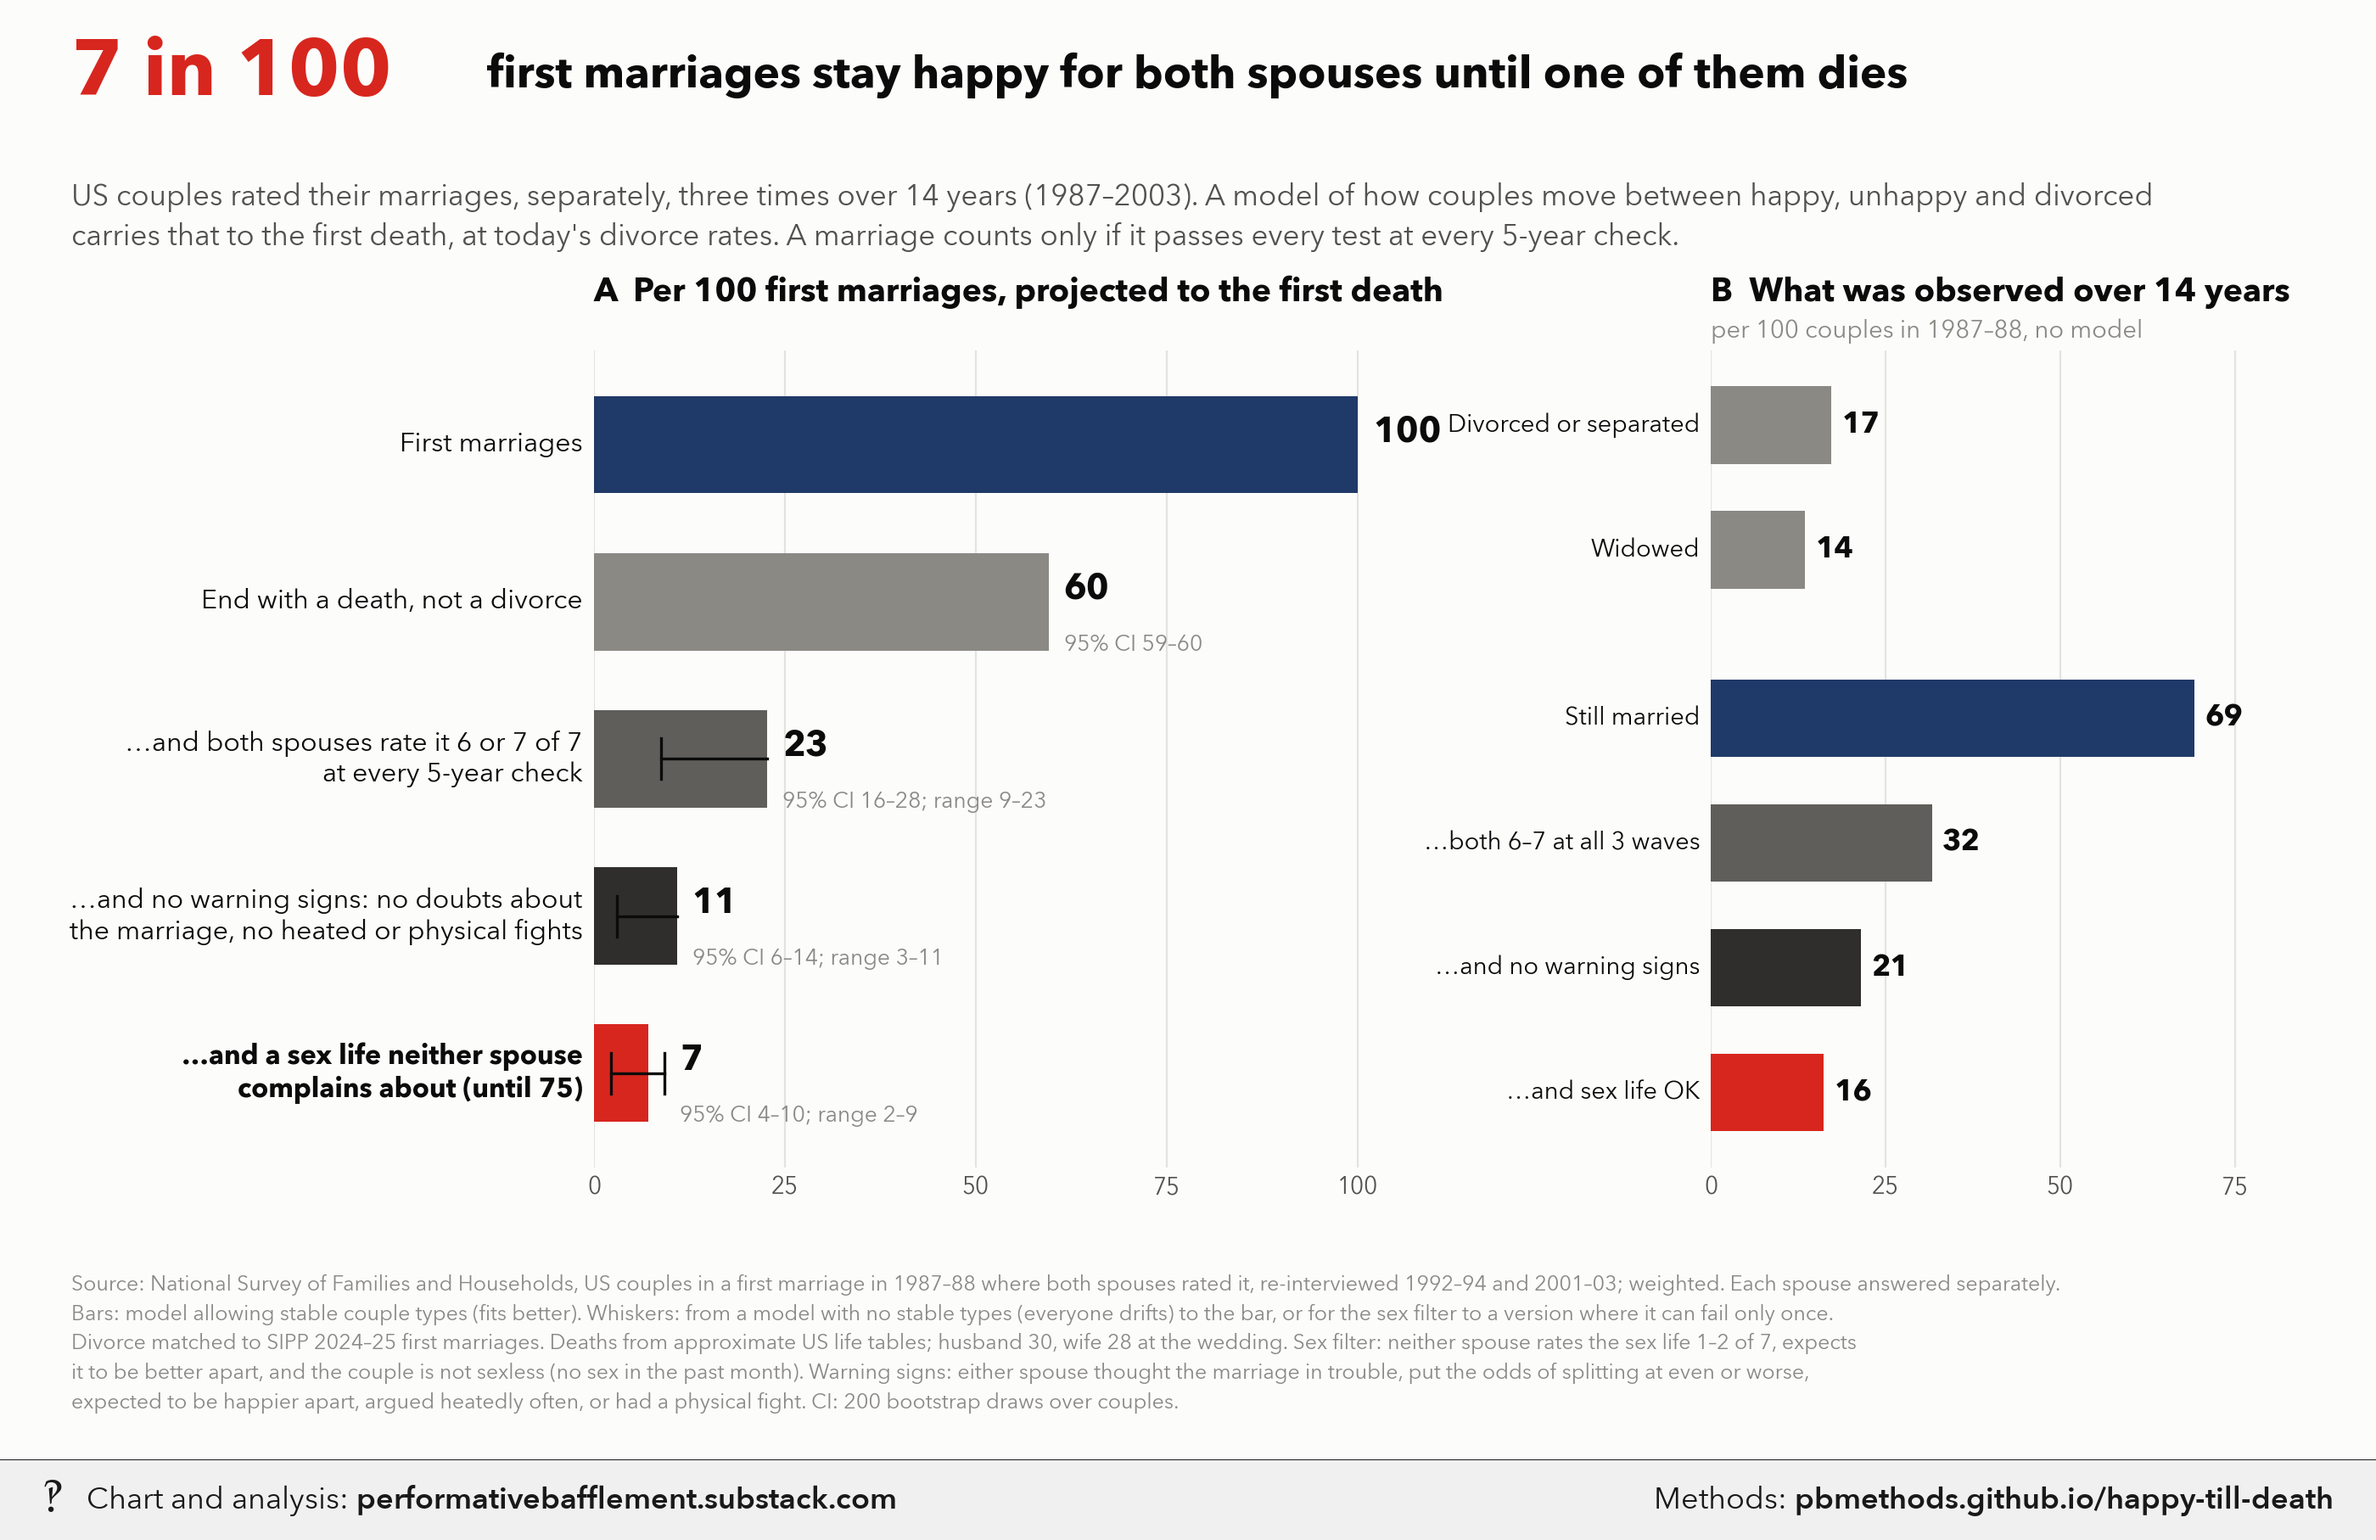
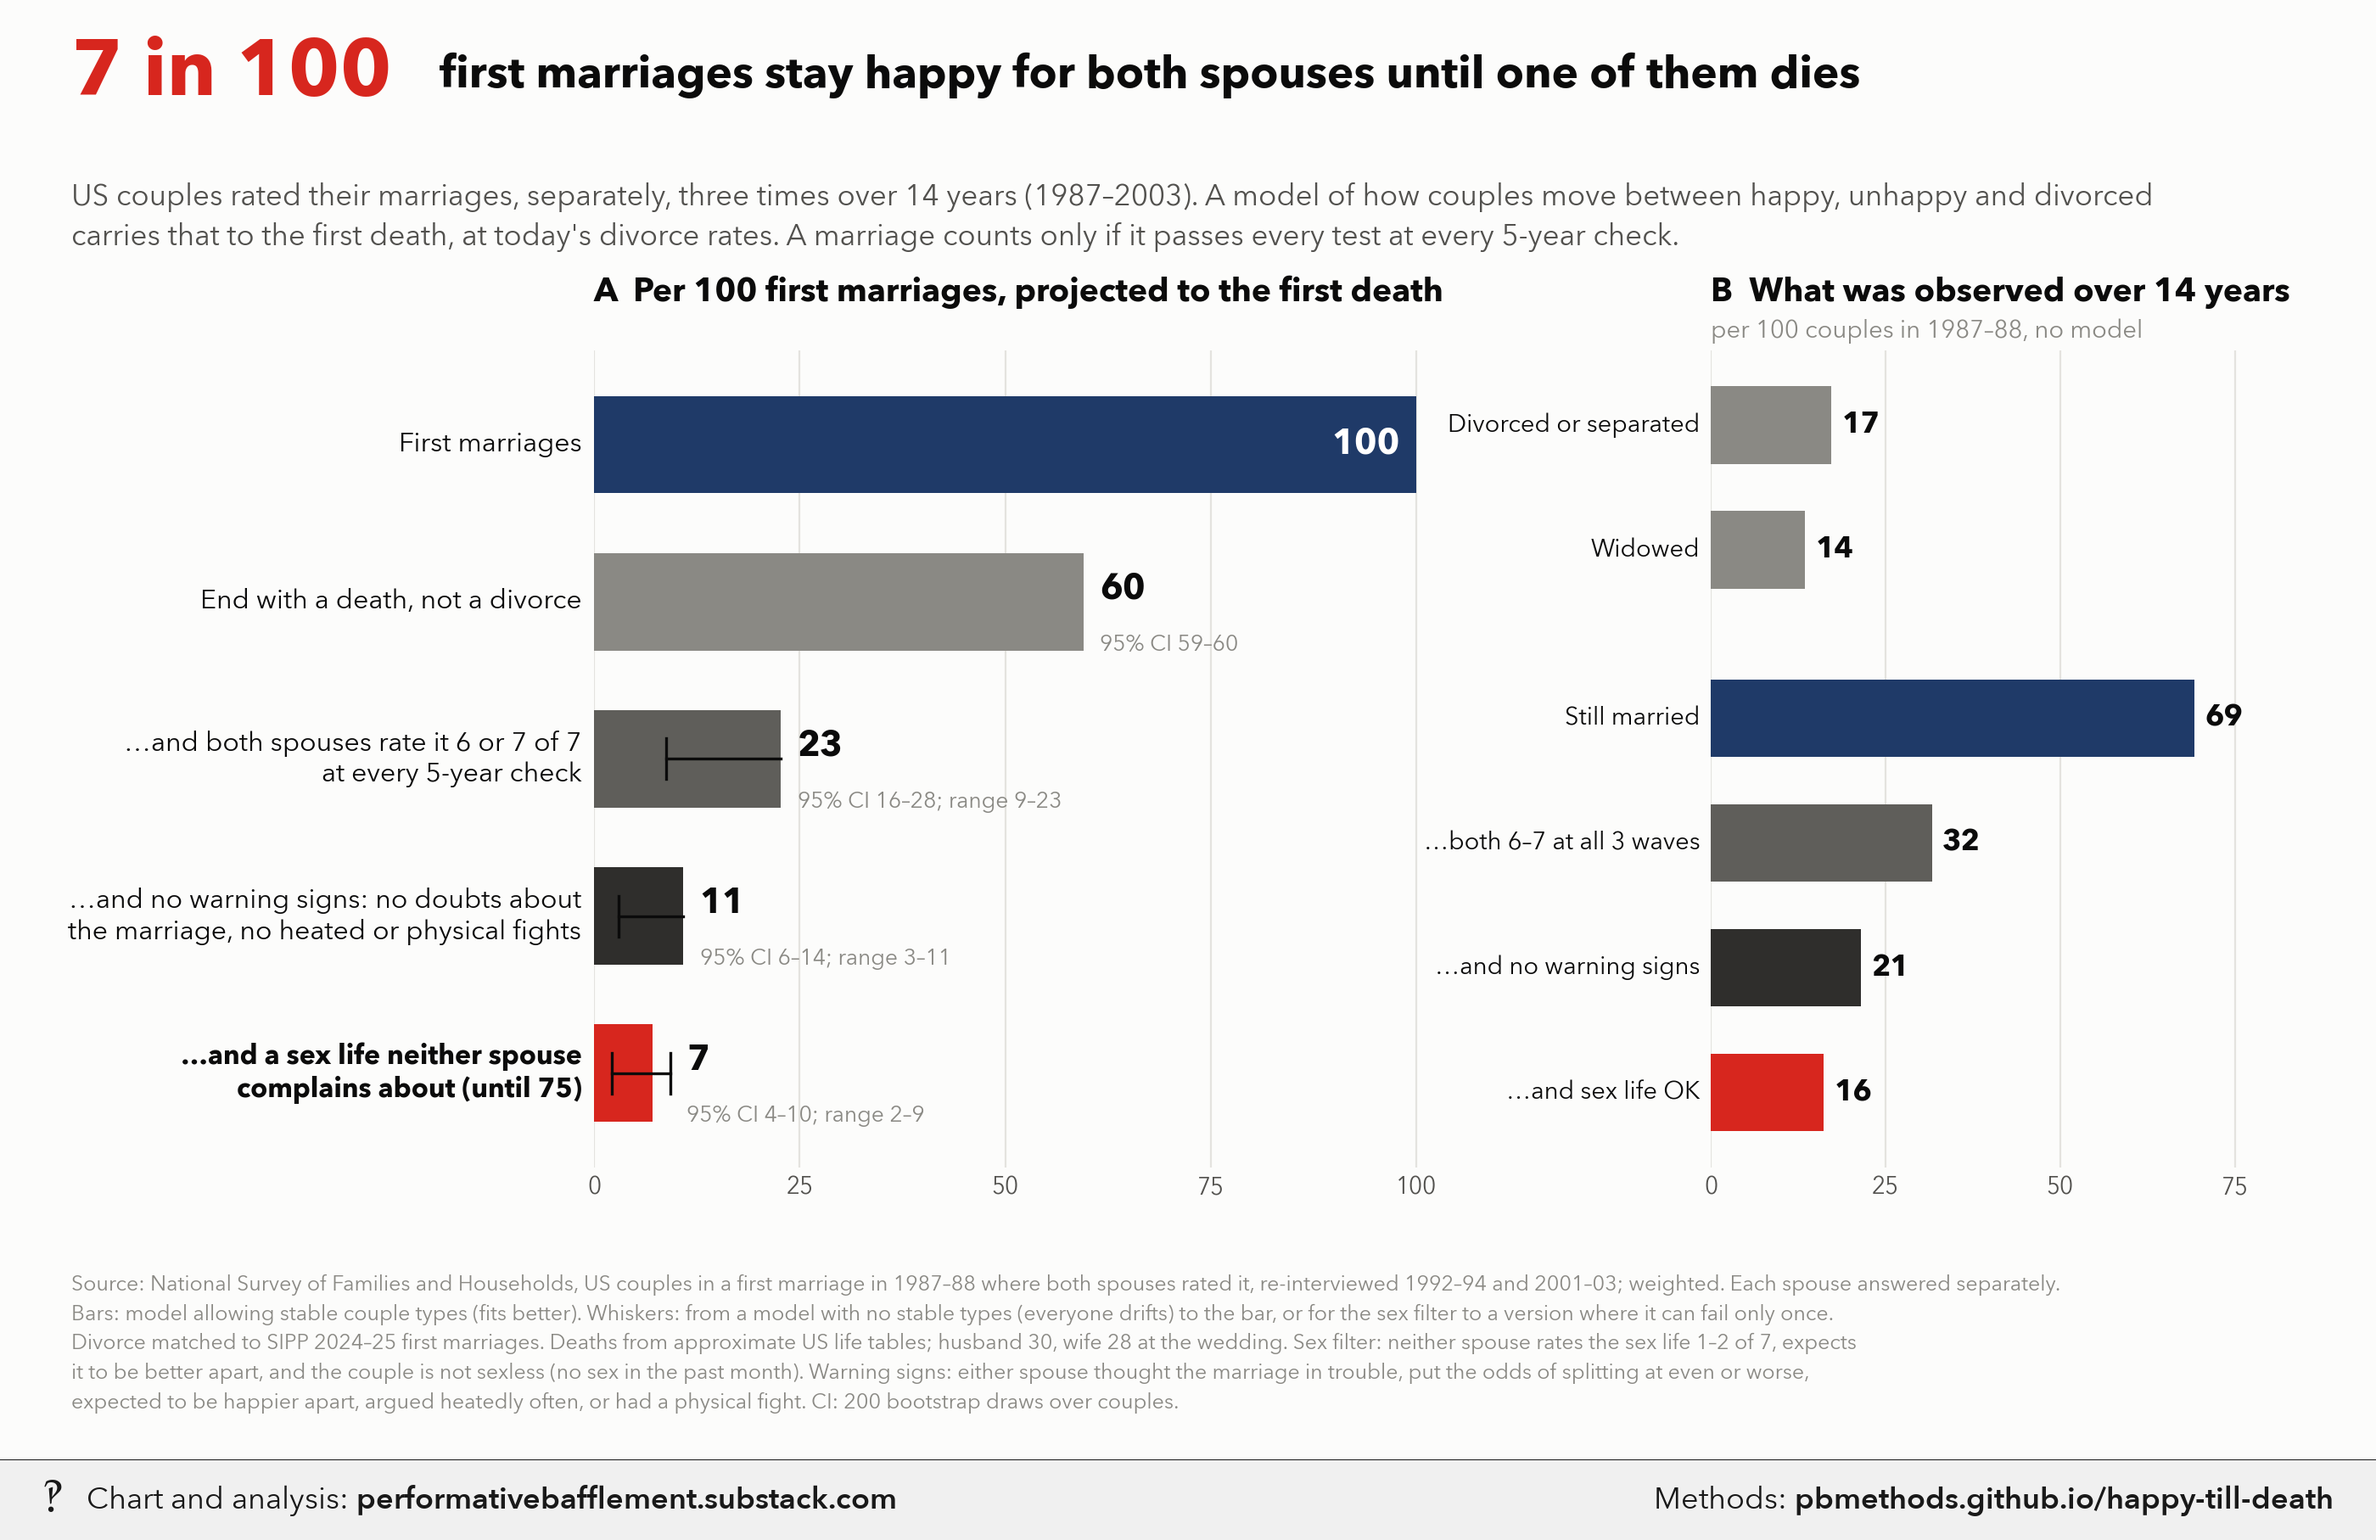
Update happy-till-death

diff --git a/happy-till-death/index.html b/happy-till-death/index.html
@@ -953,7 +953,7 @@ axA = fig.add_axes([0.25, 0.2, 0.36, 0.56])
 axB = fig.add_axes([0.72, 0.2, 0.25, 0.56])
 
 fig.text(0.03, 0.935, f&quot;{final:.0f} in 100&quot;, fontsize=34, fontweight=&quot;bold&quot;, color=pb.RED)
-fig.text(0.205, 0.94, &quot;first marriages stay happy for both spouses until one of them dies&quot;,
+fig.text(0.185, 0.94, &quot;first marriages stay happy for both spouses until one of them dies&quot;,
          fontsize=19, fontweight=&quot;bold&quot;, color=pb.INK)
 fig.text(0.03, 0.875, &quot;US couples rated their marriages, separately, three times over 14 years (1987–2003). A model of &quot;
          &quot;how couples move between happy, unhappy and divorced\ncarries that to the first death, at today's divorce &quot;
@@ -976,13 +976,17 @@ for i, (label, val, lo, hi, ci, color) in enumerate(rows):
         if hi is not None:
             axA.plot([hi, hi], [y - 0.13, y + 0.13], color=pb.INK, lw=1.2, zorder=3)
     x_lab = max(val, hi or 0) + 2
-    axA.text(x_lab, y + 0.08, f&quot;{val:.0f}&quot;, ha=&quot;left&quot;, va=&quot;center&quot;, fontsize=15, fontweight=&quot;bold&quot;, color=pb.INK)
+    if i == 0:  # full-width bar: label inside so it doesn't run into panel B
+        axA.text(val - 2, y, f&quot;{val:.0f}&quot;, ha=&quot;right&quot;, va=&quot;center&quot;, fontsize=15, fontweight=&quot;bold&quot;, color=&quot;white&quot;)
+    else:
+        axA.text(x_lab, y + 0.08, f&quot;{val:.0f}&quot;, ha=&quot;left&quot;, va=&quot;center&quot;, fontsize=15, fontweight=&quot;bold&quot;,
+                 color=pb.INK)
     if ci is not None:
         sub = f&quot;95% CI {ci[0]:.0f}–{ci[1]:.0f}&quot;
         if lo is not None:
             sub += f&quot;; range {lo:.0f}–{(hi or val):.0f}&quot;
         axA.text(x_lab, y - 0.27, sub, ha=&quot;left&quot;, va=&quot;center&quot;, fontsize=9.5, color=pb.MUTED)
-axA.set_xlim(0, 112)
+axA.set_xlim(0, 104)
 axA.set_ylim(-0.6, n - 0.4)
 axA.set_yticks([])
 axA.set_xticks([0, 25, 50, 75, 100])

diff --git a/happy-till-death/methods.md b/happy-till-death/methods.md
@@ -734,7 +734,7 @@ axA = fig.add_axes([0.25, 0.2, 0.36, 0.56])
 axB = fig.add_axes([0.72, 0.2, 0.25, 0.56])
 
 fig.text(0.03, 0.935, f"{final:.0f} in 100", fontsize=34, fontweight="bold", color=pb.RED)
-fig.text(0.205, 0.94, "first marriages stay happy for both spouses until one of them dies",
+fig.text(0.185, 0.94, "first marriages stay happy for both spouses until one of them dies",
          fontsize=19, fontweight="bold", color=pb.INK)
 fig.text(0.03, 0.875, "US couples rated their marriages, separately, three times over 14 years (1987–2003). A model of "
          "how couples move between happy, unhappy and divorced\ncarries that to the first death, at today's divorce "
@@ -757,13 +757,17 @@ for i, (label, val, lo, hi, ci, color) in enumerate(rows):
         if hi is not None:
             axA.plot([hi, hi], [y - 0.13, y + 0.13], color=pb.INK, lw=1.2, zorder=3)
     x_lab = max(val, hi or 0) + 2
-    axA.text(x_lab, y + 0.08, f"{val:.0f}", ha="left", va="center", fontsize=15, fontweight="bold", color=pb.INK)
+    if i == 0:  # full-width bar: label inside so it doesn't run into panel B
+        axA.text(val - 2, y, f"{val:.0f}", ha="right", va="center", fontsize=15, fontweight="bold", color="white")
+    else:
+        axA.text(x_lab, y + 0.08, f"{val:.0f}", ha="left", va="center", fontsize=15, fontweight="bold",
+                 color=pb.INK)
     if ci is not None:
         sub = f"95% CI {ci[0]:.0f}–{ci[1]:.0f}"
         if lo is not None:
             sub += f"; range {lo:.0f}–{(hi or val):.0f}"
         axA.text(x_lab, y - 0.27, sub, ha="left", va="center", fontsize=9.5, color=pb.MUTED)
-axA.set_xlim(0, 112)
+axA.set_xlim(0, 104)
 axA.set_ylim(-0.6, n - 0.4)
 axA.set_yticks([])
 axA.set_xticks([0, 25, 50, 75, 100])
